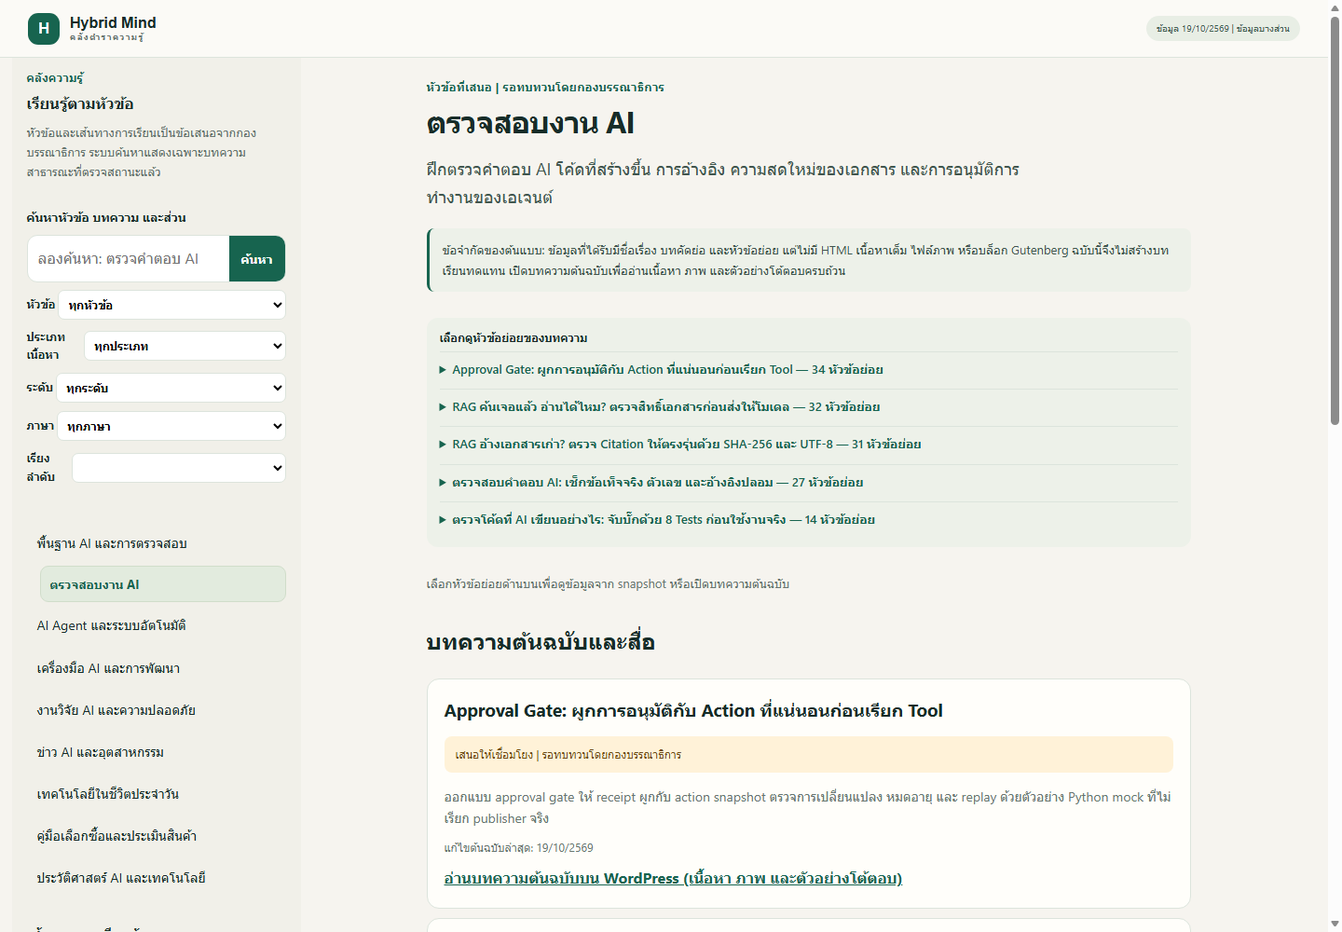
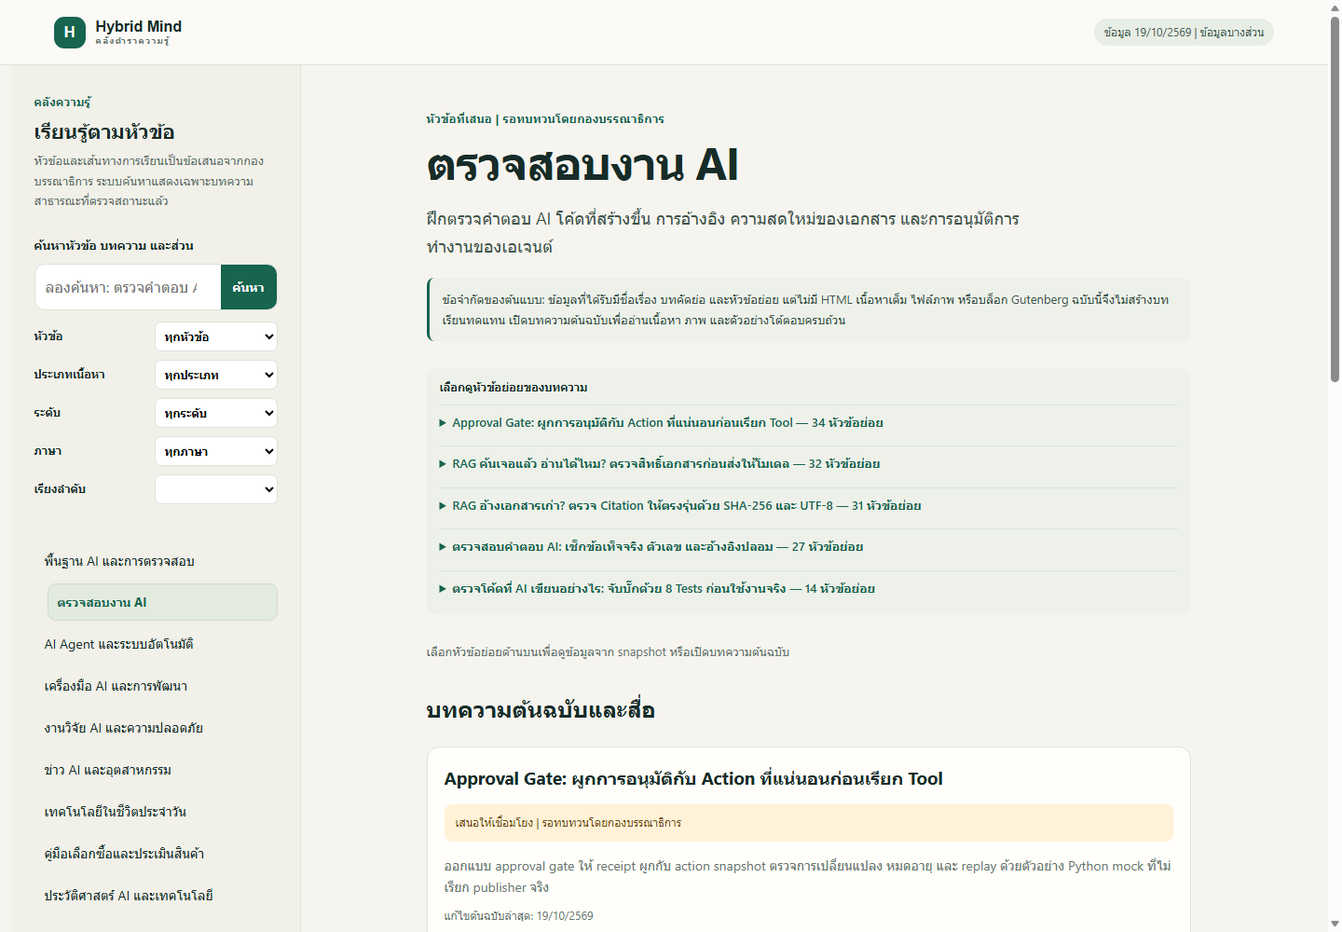
Verify reader completion and content digests

diff --git a/knowledge-textbook/app.js b/knowledge-textbook/app.js
@@ -10,7 +10,7 @@ function el(tag, value, cls) { const n = document.createElement(tag); if (value 
 function link(href, value, cls) { const a = el('a', value, cls); a.href = href; return a; }
 function isSafeArticle(article) { return article?.status === 'published' && article?.visibility === 'public' && article?.password_protected === false; }
 function canonicalArticleUrl(article) { return safeCanonicalUrl(article?.canonical_url); }
-function route(topicId, sectionId, pathId = state.pathId) { const u = new URL(location.href); u.searchParams.delete('topic'); u.searchParams.delete('section'); u.searchParams.delete('path'); if (topicId) u.searchParams.set('topic', topicId); if (sectionId) u.searchParams.set('section', sectionId); if (pathId) u.searchParams.set('path', pathId); return u.pathname + u.search; }
+function route(topicId, sectionId, pathId = null) { const u = new URL(location.href); u.searchParams.delete('topic'); u.searchParams.delete('section'); u.searchParams.delete('path'); if (topicId) u.searchParams.set('topic', topicId); if (sectionId) u.searchParams.set('section', sectionId); if (pathId) u.searchParams.set('path', pathId); return u.pathname + u.search; }
 function topicLabel(t) { return t?.label_th || t?.label_en || t?.topic_id || 'Untitled topic'; }
 function topicDescription(topic) {
   if (topic?.topic_id === 'hm:topic:verify-ai-work') return 'ฝึกตรวจคำตอบ AI โค้ดที่สร้างขึ้น การอ้างอิง ความสดใหม่ของเอกสาร และการอนุมัติการทำงานของเอเจนต์';
@@ -30,9 +30,32 @@ function topicSections(topic) { const ids = new Set(articlesFor(topic).map(a => 
 function selectedTopic() { return state.catalog.topics.find(t => t.topic_id === state.topicId); }
 function progressKey(topic) { return `hm-reading:${topic.topic_id}`; }
 const consentKey = 'hm-reading:consent';
-function readProgress(topic) { if (!state.progressEnabled || !topic) return null; try { const p = JSON.parse(localStorage.getItem(progressKey(topic)) || 'null'); if (!p) return null; if (!Object.hasOwn(p,'lastViewedSectionId')) p.lastViewedSectionId=p.sectionId??null; delete p.sectionId; if (!Object.hasOwn(p,'completed')) p.completed=false; localStorage.setItem(progressKey(topic),JSON.stringify(p)); return p; } catch { return null; } }
+function readProgress(topic) {
+  if (!state.progressEnabled || !topic) return null;
+  try {
+    const p = JSON.parse(localStorage.getItem(progressKey(topic)) || 'null'); if (!p) return null;
+    let migrated = false;
+    if (!Object.hasOwn(p, 'lastViewedSectionId')) { p.lastViewedSectionId = p.sectionId ?? null; migrated = true; }
+    if (!Object.hasOwn(p, 'lastViewedContentRevision')) { p.lastViewedContentRevision = p.revision ?? null; migrated = true; }
+    if (!Array.isArray(p.completionEvents)) {
+      p.completionEvents = p.completed === true ? [{ topicRevision: null, status: 'completed', changedAt: p.savedAt ?? null, legacy: true }] : [];
+      migrated = true;
+    }
+    if (Object.hasOwn(p, 'sectionId') || Object.hasOwn(p, 'revision') || Object.hasOwn(p, 'completed')) migrated = true;
+    delete p.sectionId; delete p.revision; delete p.completed;
+    if (migrated) localStorage.setItem(progressKey(topic), JSON.stringify(p));
+    return p;
+  } catch { return null; }
+}
 function topicContentRevision(topic) { return `${topic.topic_revision ?? ''}:${articlesFor(topic).map(a => `${a.article_id}@${a.article_revision ?? a.modified_at ?? ''}`).sort().join('|')}`; }
-function saveProgress(topic) { if (!state.progressEnabled || state.progressPaused || !topic) return; try { const prior = readProgress(topic); localStorage.setItem(progressKey(topic), JSON.stringify({ revision: topicContentRevision(topic), lastViewedSectionId: state.sectionId || prior?.lastViewedSectionId || null, completed: prior?.completed === true, savedAt: new Date().toISOString() })); } catch {} }
+function explicitTopicRevision(topic) { return topic?.topic_revision === null || topic?.topic_revision === undefined || topic?.topic_revision === '' ? null : String(topic.topic_revision); }
+function completionStatus(topic, progress) {
+  const topicRevision = explicitTopicRevision(topic), events = progress?.completionEvents ?? [];
+  const currentEvent = topicRevision === null ? null : [...events].reverse().find(event => String(event.topicRevision) === topicRevision);
+  const previousCompletion = topicRevision === null ? null : [...events].reverse().find(event => event.status === 'completed' && String(event.topicRevision) !== topicRevision);
+  return { topicRevision, currentEvent, completed: currentEvent?.status === 'completed', reviewNeeded: topicRevision !== null && !currentEvent && Boolean(previousCompletion), previousCompletion };
+}
+function saveProgress(topic) { if (!state.progressEnabled || state.progressPaused || !topic) return; try { const prior = readProgress(topic); localStorage.setItem(progressKey(topic), JSON.stringify({ lastViewedContentRevision: topicContentRevision(topic), lastViewedSectionId: state.sectionId || prior?.lastViewedSectionId || null, completionEvents: prior?.completionEvents ?? [], savedAt: new Date().toISOString() })); } catch {} }
 function searchParamsFromControls() { const u = new URL(location.href); for (const [key, id] of [['q','search-input'],['filterTopic','filter-topic'],['type','filter-type'],['level','filter-level'],['locale','filter-locale'],['sort','filter-sort']]) { const value = $(`#${id}`)?.value || ''; if (value) u.searchParams.set(key, value); else u.searchParams.delete(key); } return u; }
 function syncSearchUrl({ replace = false } = {}) { const u = searchParamsFromControls(); history[replace ? 'replaceState' : 'pushState']({}, '', u); }
 function restoreSearchFromUrl() { const u = new URL(location.href); for (const [key, id] of [['q','search-input'],['filterTopic','filter-topic'],['type','filter-type'],['level','filter-level'],['locale','filter-locale'],['sort','filter-sort']]) { const node = $(`#${id}`); if (node) node.value = u.searchParams.get(key) || ''; } renderSearch(); }
@@ -63,6 +86,20 @@ function renderLearningPaths() {
     card.append(el('small', `${path.status === 'proposed' ? 'เส้นทางที่เสนอ' : path.status} · ${goal}`));
     target.append(card);
   }
+}
+function topicPaths(topic) { return state.catalog.learning_paths.filter(path => (path.ordered_topic_ids || []).includes(topic.topic_id)); }
+function renderTopicPathChoices(topic) {
+  const paths = topicPaths(topic); if (!paths.length) return null;
+  const nav = el('nav', undefined, 'topic-path-choices'); nav.setAttribute('aria-label', 'Choose a learning path');
+  const active = paths.find(path => path.path_id === state.pathId);
+  nav.append(el('strong', active ? `Active learning path: ${active.title}` : 'Choose a learning path for ordered previous and next topics', 'active-path-label'));
+  for (const path of paths) {
+    const choice = link(route(topic.topic_id, state.sectionId, path.path_id), path.title, `topic-path-choice${active?.path_id === path.path_id ? ' selected' : ''}`);
+    choice.dataset.pathId = path.path_id;
+    if (active?.path_id === path.path_id) choice.setAttribute('aria-current', 'page');
+    nav.append(choice);
+  }
+  return nav;
 }
 function renderSearch() {
   const box = $('#search-results'); box.replaceChildren(); const q = $('#search-input').value.trim(); if (!q) return;
@@ -98,9 +135,27 @@ function renderReader() {
   const description = topicDescription(topic);
   if (description) out.append(el('p', description, 'lead'));
   out.append(el('p', state.contentById.size ? 'แสดงเนื้อหาที่นำเข้าจาก WordPress และผ่านการตรวจสอบสำหรับบทความที่มีข้อมูลเท่านั้น ส่วนองค์ประกอบโต้ตอบที่ไม่รองรับจะแสดงคำอธิบายแบบคงที่; เปิดต้นฉบับเพื่อใช้สื่อโต้ตอบเต็มรูปแบบ' : 'ข้อจำกัดของต้นแบบ: ข้อมูลที่ได้รับมีชื่อเรื่อง บทคัดย่อ และหัวข้อย่อย แต่ไม่มี HTML เนื้อหาเต็ม ไฟล์ภาพ หรือบล็อก Gutenberg ฉบับนี้จึงไม่สร้างบทเรียนทดแทน เปิดบทความต้นฉบับเพื่ออ่านเนื้อหา ภาพ และตัวอย่างโต้ตอบครบถ้วน', 'scope-note'));
-  const prior = readProgress(topic), revision = topicContentRevision(topic);
-  if(prior){const viewed=state.catalog.sections.find(sec=>sec.section_id===(prior.lastViewedSectionId??prior.sectionId));out.append(el('p',prior.revision===revision?`อ่านล่าสุด: ${viewed?.heading_text||'จุดเริ่มต้นของหัวข้อ'} · ${prior.completed?'อ่านจบแล้ว':'ยังอ่านไม่จบ'}`:'หัวข้อนี้มีการปรับปรุงหลังจากอ่านครั้งล่าสุด',prior.revision===revision?'progress-note':'updated-note'));}
-  if (state.progressEnabled) { const status=readProgress(topic), button=el('button',status?.completed?'ยกเลิกสถานะอ่านจบ':'ทำเครื่องหมายว่าอ่านจบ','complete-topic'); button.type='button'; button.setAttribute('aria-pressed',String(status?.completed===true)); button.addEventListener('click',()=>{try{localStorage.setItem(progressKey(topic),JSON.stringify({revision:topicContentRevision(topic),lastViewedSectionId:status?.lastViewedSectionId||state.sectionId||null,completed:status?.completed!==true,savedAt:new Date().toISOString()}));}catch{}renderReader();}); out.append(button); }
+  const prior = readProgress(topic), revision = topicContentRevision(topic), completion = completionStatus(topic, prior);
+  if (prior?.lastViewedContentRevision) {
+    const viewed = state.catalog.sections.find(sec => sec.section_id === prior.lastViewedSectionId);
+    out.append(el('p', prior.lastViewedContentRevision === revision ? `อ่านล่าสุด: ${viewed?.heading_text || 'จุดเริ่มต้นของหัวข้อ'}` : 'หัวข้อนี้มีการปรับปรุงหลังจากอ่านครั้งล่าสุด', prior.lastViewedContentRevision === revision ? 'progress-note' : 'updated-note'));
+  }
+  if (state.progressEnabled) {
+    if (completion.reviewNeeded) out.append(el('p', `Review needed: previously completed at topic revision ${completion.previousCompletion.topicRevision}.`, 'review-needed'));
+    else out.append(el('p', completion.completed ? `Completed at topic revision ${completion.topicRevision}.` : completion.topicRevision ? `Not completed at topic revision ${completion.topicRevision}.` : 'Completion tracking requires an explicit topic revision.', completion.completed ? 'completion-note' : 'progress-note'));
+    const button = el('button', completion.completed ? 'Mark current revision incomplete' : 'Mark current revision complete', 'complete-topic'); button.type = 'button';
+    button.disabled = completion.topicRevision === null; button.setAttribute('aria-pressed', String(completion.completed));
+    button.addEventListener('click', () => {
+      if (completion.topicRevision === null) return;
+      try {
+        const events = prior?.completionEvents ?? [];
+        events.push({ topicRevision: completion.topicRevision, status: completion.completed ? 'incomplete' : 'completed', changedAt: new Date().toISOString() });
+        localStorage.setItem(progressKey(topic), JSON.stringify({ lastViewedContentRevision: revision, lastViewedSectionId: state.sectionId || prior?.lastViewedSectionId || null, completionEvents: events, savedAt: new Date().toISOString() }));
+      } catch {}
+      renderReader();
+    });
+    out.append(button);
+  }
   const articles = articlesFor(topic), sections = topicSections(topic);
   const subnav = el('nav', undefined, 'in-page-toc'); subnav.setAttribute('aria-label', 'สารบัญหัวข้อย่อยในบทความ');
   subnav.append(el('strong', 'เลือกดูหัวข้อย่อยของบทความ'));
@@ -109,7 +164,7 @@ function renderReader() {
     const headings = sections.filter(s => s.article_id === article.article_id);
     const summary = el('summary', `${article.title} — ${headings.length} หัวข้อย่อย`); outline.append(summary);
     const links = el('div', undefined, 'outline-links');
-    headings.forEach(s => links.append(link(route(topic.topic_id, s.section_id), s.heading_text)));
+    headings.forEach(s => links.append(link(route(topic.topic_id, s.section_id, state.pathId), s.heading_text)));
     outline.append(links); subnav.append(outline);
   }
   out.append(subnav);
@@ -136,13 +191,18 @@ function renderReader() {
     source.append(card);
   });
   out.append(source);
-  const path = state.catalog.learning_paths.find(p => p.path_id === state.pathId), sequence = path?.ordered_topic_ids || [], ix = sequence.indexOf(topic.topic_id), prev = ix > 0 ? state.catalog.topics.find(t=>t.topic_id===sequence[ix-1]) : null, next = ix >= 0 && ix < sequence.length-1 ? state.catalog.topics.find(t=>t.topic_id===sequence[ix+1]) : null;
-  const pager = el('nav', undefined, 'topic-pager'); pager.setAttribute('aria-label', 'หัวข้อก่อนหน้าและถัดไปในเส้นทางการเรียนรู้');
-  pager.append(prev ? link(route(prev.topic_id, null, path.path_id), `← ก่อนหน้า: ${topicLabel(prev)}`) : el('span', 'จุดเริ่มต้นของเส้นทางการเรียนรู้'));
-  pager.append(next ? link(route(next.topic_id, null, path.path_id), `ถัดไป: ${topicLabel(next)} →`) : el('span', 'สิ้นสุดเส้นทางการเรียนรู้'));  out.append(pager); if (state.progressEnabled && !state.progressPaused && (!prior || prior.revision === revision)) saveProgress(topic);
+  const pathChoice = renderTopicPathChoices(topic); if (pathChoice) out.append(pathChoice);
+  const path = state.catalog.learning_paths.find(p => p.path_id === state.pathId);
+  if (path) {
+    const sequence = path.ordered_topic_ids || [], ix = sequence.indexOf(topic.topic_id), prev = ix > 0 ? state.catalog.topics.find(t=>t.topic_id===sequence[ix-1]) : null, next = ix >= 0 && ix < sequence.length-1 ? state.catalog.topics.find(t=>t.topic_id===sequence[ix+1]) : null;
+    const pager = el('nav', undefined, 'topic-pager'); pager.setAttribute('aria-label', `Previous and next topics in ${path.title}`);
+    pager.append(prev ? link(route(prev.topic_id, null, path.path_id), `← ก่อนหน้า: ${topicLabel(prev)}`) : el('span', `จุดเริ่มต้น · ${path.title}`));
+    pager.append(next ? link(route(next.topic_id, null, path.path_id), `ถัดไป: ${topicLabel(next)} →`) : el('span', `สิ้นสุด · ${path.title}`)); out.append(pager);
+  }
+  if (state.progressEnabled && !state.progressPaused && (!prior || prior.lastViewedContentRevision === revision)) saveProgress(topic);
 }
 function syncRoute({ userNavigation = false } = {}) {
-  const u = new URL(location.href), topics = state.catalog.topics; state.topicId = u.searchParams.get('topic') || topics[0]?.topic_id || null; state.sectionId = u.searchParams.get('section'); const paths = state.catalog.learning_paths.filter(p=>(p.ordered_topic_ids||[]).includes(state.topicId)).sort((a,b)=>a.path_id.localeCompare(b.path_id)); const requestedPath=u.searchParams.get('path'); state.pathId=paths.some(p=>p.path_id===requestedPath)?requestedPath:paths[0]?.path_id||null; if(requestedPath!==state.pathId){if(state.pathId)u.searchParams.set('path',state.pathId);else u.searchParams.delete('path');history.replaceState({},'',u);}
+  const u = new URL(location.href), topics = state.catalog.topics; state.topicId = u.searchParams.get('topic') || topics[0]?.topic_id || null; state.sectionId = u.searchParams.get('section'); const requestedPath=u.searchParams.get('path'); const validPath=state.catalog.learning_paths.find(p=>p.path_id===requestedPath&&(p.ordered_topic_ids||[]).includes(state.topicId)); state.pathId=validPath?.path_id||null; if(requestedPath && !state.pathId){u.searchParams.delete('path');history.replaceState({},'',u);}
   const topic = selectedTopic(); state.invalidSection = Boolean(state.sectionId && topic && !topicSections(topic).some(s => s.section_id === state.sectionId));
   if (state.invalidSection) state.sectionId = null;
   renderTopicNav($('#topic-toc')); renderMobileToc(); renderReader(); state.invalidSection = false;
@@ -159,7 +219,7 @@ function renderMobileToc() {
     const headings = sections.filter(s => s.article_id === article.article_id);
     outline.append(el('summary', `${article.title} — ${headings.length} หัวข้อย่อย`));
     const links = el('div', undefined, 'outline-links');
-    headings.forEach(s => links.append(link(route(topic.topic_id, s.section_id), s.heading_text)));
+    headings.forEach(s => links.append(link(route(topic.topic_id, s.section_id, state.pathId), s.heading_text)));
     outline.append(links); subnav.append(outline);
   }
   target.append(subnav);

diff --git a/knowledge-textbook/styles.css b/knowledge-textbook/styles.css
@@ -7,3 +7,4 @@
 @media(max-width:760px){.side-head .eyebrow,.side-head .muted{display:none}.side-head h1{font-size:16px;margin:0 0 9px}.sidebar{padding:12px 16px 14px}.filter-disclosure{margin-top:8px}.filter-disclosure>summary{display:block;cursor:pointer;padding:7px 10px;border:1px solid var(--line);border-radius:8px;background:#fffefa;color:var(--green);font-size:13px;font-weight:700}.filter-disclosure[open]>summary{margin-bottom:9px}.learning-paths{display:none}.filters{margin-top:0}.mobile-path-links{background:#f8faf6;border-radius:8px}}
 
 .complete-topic{margin:10px 0;padding:9px 13px;border:1px solid var(--green);border-radius:8px;background:#fffefa;color:var(--green);font-weight:700;cursor:pointer}.complete-topic[aria-pressed=true]{background:#eaf1e5}.structured-article-content{line-height:1.75;overflow-wrap:anywhere}.structured-article-content img{display:block;max-width:100%;height:auto;border-radius:8px}.structured-article-content pre{max-width:100%;overflow:auto;padding:12px;background:#f0f1ed;border-radius:8px}.structured-article-content a{color:var(--green);text-decoration:underline}.interactive-static-fallback{padding:12px;background:#f7f0de;border-left:3px solid #9a7c39}.topic-pager span{color:var(--muted)}
+.topic-path-choices{display:grid;gap:6px;margin:22px 0 8px;padding:12px;background:#edf1e9;border-radius:10px}.active-path-label{font-size:12px}.topic-path-choice{color:var(--green);font-size:13px;padding:6px 8px;border-radius:7px}.topic-path-choice.selected{font-weight:700;background:#dfe9d8}.completion-note{font-size:13px;color:var(--green);font-weight:600}.review-needed{padding:10px 12px;background:#fff2d8;color:#704c14;border-radius:8px;font-size:13px}

diff --git a/docs/reader-content-blocker.md b/docs/reader-content-blocker.md
@@ -16,13 +16,15 @@ I did not assemble a local article from partial crawler text, infer missing imag
 
 The pilot now includes a versioned entry schema (`contracts/knowledge-content-v1.schema.json`), a bundle schema, an offline-only importer (`scripts/import-structured-content.mjs`), and an allowlisted DOM renderer. Its tests use an explicitly labeled synthetic fixture; that fixture is never a build or server input. The current app fetches the optional bundle only from the fixed `/data/pilot-content-bundle.json` route and renders entries whose provenance is `wordpress_export`. If the route is absent, the metadata-only view remains available.
 
-To unblock source rendering, provide a saved structured export for each of the five IDs with: public `publish` status and `password_protected: false` checked at both enumeration and body-read time; the exact canonical URL; the public-catalog `source_revision`; a SHA-256 of the exported source payload; an import timestamp; and typed block data. Images must include canonical upload URLs, source alt text, and captions/attribution when present. The importer checks the canonical URL, public status and revision against the catalog. Run:
+Each normalized entry has a separate `content_digest`, computed as SHA-256 of UTF-8 canonical JSON for `{article_id, canonical_url, source_revision, blocks}`. Object keys are recursively sorted, array order is kept, and the serialization has no BOM or whitespace. The importer calculates it; the build and loopback server recompute it and reject a mismatch. `source_hash` describes the original WordPress payload bytes and is marked `unverified` with a null hash when those bytes are unavailable. To verify it, include the exact original bytes as `source_payload_base64` in the offline importer input; the importer hashes the decoded bytes and rejects any conflicting claimed source hash. A claimed digest string by itself is never treated as proof.
+
+To unblock source rendering, provide a saved structured export for each of the five IDs with: public `publish` status and `password_protected: false` checked at both enumeration and body-read time; the exact canonical URL; the public-catalog `source_revision`; the exact original payload bytes (or leave `source_hash_status` unverified); an import timestamp; and typed block data. Images must include canonical upload URLs, source alt text, and captions/attribution when present. The importer checks the canonical URL, public status and revision against the catalog. Run:
 
 ```powershell
 node scripts/import-structured-content.mjs <wordpress-export.json> <article-bundle.json> [public-catalog.json]
 ```
 
-The output is a one-article bundle. Combine only validated `articles` entries into `offline/pilot-content-bundle.json`; the build validates that bundle against `contracts/knowledge-content-bundle-v1.schema.json`, rejects fixtures and excludes articles absent from the public projection. Then rebuild and run the reader locally. The importer does not fetch WordPress, bypass the current network restriction, or mutate the site.
+The output is a one-article bundle. Combine only validated `articles` entries into `offline/pilot-content-bundle.json`; the build validates that bundle against `contracts/knowledge-content-bundle-v1.schema.json`, rejects fixtures, excludes articles absent from the public projection, and recomputes every normalized content digest. Then rebuild and run the reader locally. The importer does not fetch WordPress, bypass the current network restriction, or mutate the site.
 
 Known renderer scope: headings, paragraphs with checked inline link offsets and credential-free HTTPS links, lists, quotations, code, and canonical upload images are rendered as DOM nodes with `textContent`. Unknown Gutenberg blocks become a static explanatory note with their HTML/payload discarded; the original article link remains available for interactive use. This is a safe fallback, not playback of the original interactive block.
 

diff --git a/knowledge-textbook/README.md b/knowledge-textbook/README.md
@@ -6,7 +6,9 @@ Run checks with `npm run lint`, `npm test`, and `npm run evaluate`. `npm run bui
 
 Snapshot coverage and editorial review status are shown in the interface. Article and topic mappings remain proposed until approved. Without an optional validated structured-content bundle, the reader shows public metadata and links to WordPress. If `offline/pilot-content-bundle.json` is provided, the build validates and packages it; only allowlisted blocks render locally, and unsupported Gutenberg interactives become static notes.
 
-Reading progress is off by default. When enabled it is stored only in this browser's `localStorage`; Reset progress clears reader progress keys on this device. Invalid section query IDs fall back to the topic. Progress comparison is revision-aware and independent of catalog list order.
+Reading progress is off by default. When enabled it is stored only in this browser's `localStorage`; Reset progress clears reader progress keys on this device. Last-viewed freshness tracks the topic's content revision (including source article revisions), while completion history is append-only and tied only to an explicit `topic_revision`. A changed topic revision marks a prior completion as needing review and leaves the current completion button unpressed. Invalid section query IDs fall back to the topic. A topic route does not imply a learning path: choose a path explicitly before its ordered previous/next pager appears.
+
+Structured content uses two distinct hashes. `content_digest` covers canonical UTF-8 JSON for `article_id`, `canonical_url`, `source_revision`, and normalized `blocks`, with recursively sorted object keys and preserved array order. The importer computes it and the build/server verify it. `source_hash` is a SHA-256 of exact original WordPress bytes only when supplied in `source_payload_base64`; otherwise the entry records a null hash and `source_hash_status: "unverified"`.
 
 Only the five requested pilot articles with an explicit `password_protected: false` observation enter the browser catalog and its section index. The other 243 rows have unknown password and visibility state and are excluded from the runnable package, server response, search and mapping cards until checked. The full 248-row inventory remains in the source worktree's offline/reference folders; neither the full inventory nor raw inputs are copied into `dist/` or the ZIP.
 
